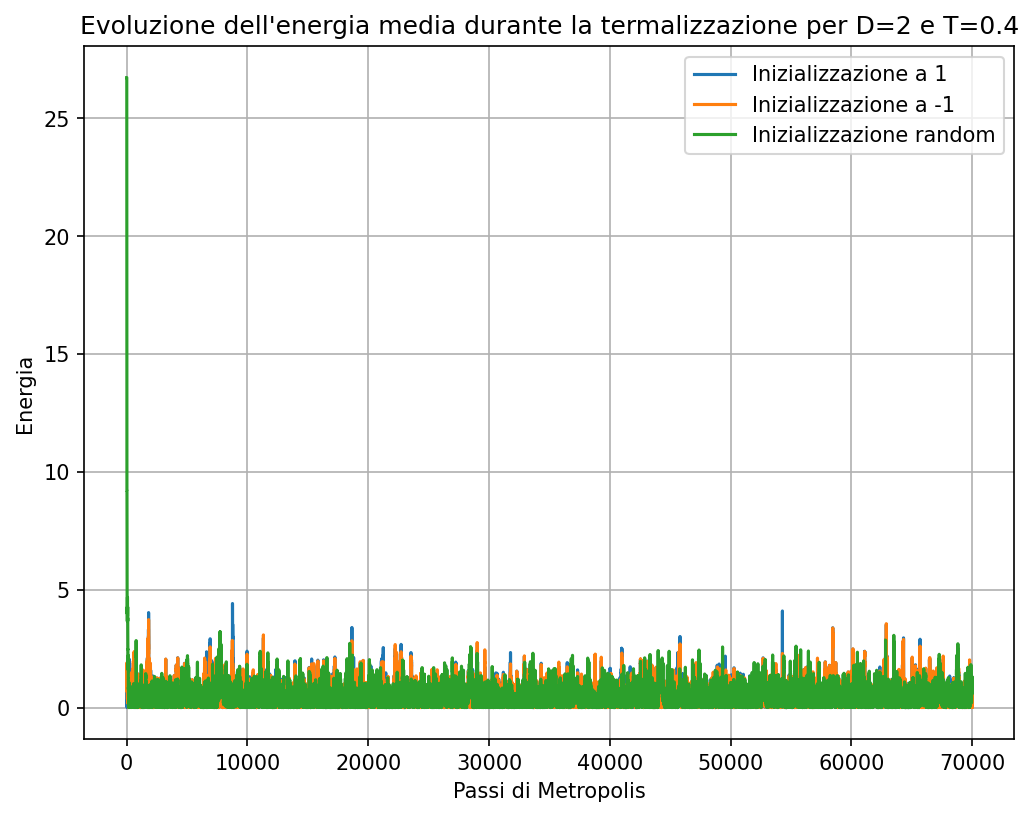
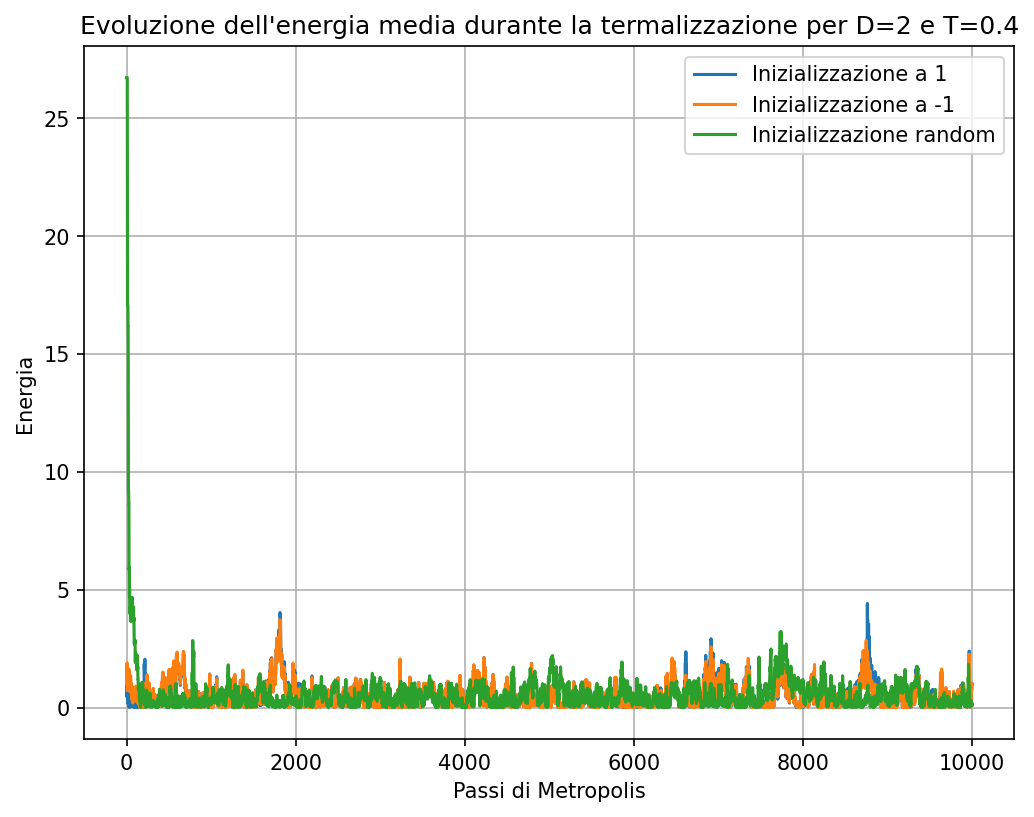
new blocking anf plateau

diff --git a/source/observable.py b/source/observable.py
@@ -1,85 +1,74 @@
 import jax 
 import jax.numpy as jnp
-import numpy as np
+import numpy as np  
 
 @jax.jit
 def V(x, a=1.0, b=1.0):
     return a * (x[0]**2 - b)**2 + 0.5 * jnp.sum(x[1:]**2)
 
+def find_plateau(R_values, threshold=0.01):
+
+    for k in range(1, len(R_values)):
+        rel = jnp.abs(R_values[k] - R_values[k-1]) / jnp.abs(R_values[k-1]) # relative change
+        if rel < threshold:
+            R_plateau = R_values[k]
+            tau = 0.5 * (R_plateau - 1.0)
+            return R_plateau, tau
+
+    # fallback → usa l'ultimo livello di blocking
+    R_plateau = R_values[-1]
+    tau = 0.5 * (R_plateau - 1.0)
+    print("Warning: no plateau found, using last R value")
+    return R_plateau, tau
+
 def blocking_analysis(data):
-    data = np.array(data)
-    N = len(data)
+    x = jnp.array(data, dtype=jnp.float32)
 
-    var_naive = np.var(data, ddof=1)
+    # varianza completa 
+    varX = jnp.var(x, ddof=1)
 
-    block_sizes = []
-    R_values = []
-    errors = []
+    R_list = []
+    cur = x.copy()
+    m = 1
 
-    for B in range(1, N // 5):
-        n_blocks = N // B
-        if n_blocks < 2:
-            break
+    # fino a quando ci sono almeno 2 blocchi
+    while cur.shape[0] >= 2:
 
-        trimmed = data[:n_blocks * B]
-        block_means = trimmed.reshape(n_blocks, B).mean(axis=1)
+        if cur.shape[0] % 2 == 1:
+            cur = cur[:-1]
+        # Media per blocco (cur è già il dataset "bloccato")
+        var_block_mean = jnp.var(cur, ddof=1)
 
-        var_B = np.var(block_means, ddof=1)
+        # R(m) = m * Var(block) / Var(full)
+        R = m * var_block_mean / varX
+        R_list.append(R)
 
-        R = B * var_B / var_naive
-
-        err = np.sqrt(R * var_naive / N)
-
-        block_sizes.append(B)
-        R_values.append(R)
-        errors.append(err)
-
-    return np.array(R_values), np.array(errors)
-
-def find_plateau(R_values, errors, window=50):
-    R_values = np.array(R_values)
-    errors = np.array(errors)
-
-    if len(R_values) <= window:
-        R_plateau = R_values[-1]
-        err_plateau = errors[-1]
-        tau = max((R_plateau - 1) / 2, 0.0)
-        return err_plateau, tau
-
-    grad = np.abs(np.diff(R_values))
-    threshold = 0.01 * np.percentile(R_values, 95)
-    candidates = np.where(grad < threshold)[0]
-
-    # Use the last sustained flat region, not the first transient dip
-    idx = candidates[-1] if len(candidates) > 0 else len(R_values) // 2
-    idx = max(idx, window)
-
-    end = min(idx + window, len(R_values))
-    R_plateau = np.mean(R_values[idx:end])
-    err_plateau = np.mean(errors[idx:end])
-
-    tau = max((R_plateau - 1) / 2, 0.0)
-    return err_plateau, tau
+        # blocking → media di coppie
+        cur = 0.5 * (cur[0::2] + cur[1::2])
+        m *= 2
+    R_plateau, tau = find_plateau(R_list, threshold=0.01)
+    M = data.shape[0]
+    sigma_mean = jnp.sqrt(R_plateau * varX / M)
+    return sigma_mean, tau
 
 def append_observables(results, trajectories, D, T, trajectory, acceptance_rate, a=1.0, b=1.0):
     energies = np.array(jax.vmap(lambda x: V(x, a, b))(trajectory))
     energies2 = energies**2
 
-    # blocking su E
-    R_E, err_E = blocking_analysis(energies)
-    E_mean_err, _ = find_plateau(R_E, err_E)
-    E_mean = np.mean(energies)
+    # blocking for E
+    E_mean =np.mean(energies)
+    E_mean_err, _ = blocking_analysis(energies)
+    
 
-    # blocking su E^2 per Cv
-    R_E2, err_E2 = blocking_analysis(energies2)
-    E2_err, _ = find_plateau(R_E2, err_E2)
+    # blocking for Cv
+    E2_mean_err, _ = blocking_analysis(energies2)
     Cv = (np.mean(energies2) - E_mean**2) / T**2
-    Cv_err = np.sqrt((E2_err**2 + 4*E_mean**2 * E_mean_err**2)) / T**2
+    # error propagation for Cv
+    Cv_err = (E2_mean_err + 2 * E_mean * E_mean_err) / T**2
 
     #tau_x
     x_values = np.array(trajectory[:, 0])
-    R_x, err_x = blocking_analysis(x_values)
-    _, tau_x = find_plateau(R_x, err_x)
+    _, tau_x = blocking_analysis(x_values)
 
     results[D]["T"].append(T)
     results[D]["E_mean"].append(E_mean)

diff --git a/source/plot.py b/source/plot.py
@@ -3,7 +3,6 @@ import os
 import jax
 import jax.numpy as jnp
 import observable as obs
-import numpy as np
 
 REPORT_DIR = os.path.join(os.path.dirname(__file__), "..", "report")
 
@@ -84,7 +83,7 @@ def plot_trajectory(trajectories, temperatures, dimensions, bins=30):
         for j, T in enumerate(temperatures):
             ax = axes[i, j]
 
-            weights = np.ones_like(trajectories[D][j]) / len(trajectories[D][j])
+            weights = jnp.ones_like(trajectories[D][j]) / len(trajectories[D][j])
 
             ax.hist(trajectories[D][j], bins=bins, weights=weights, alpha=0.7)
             ax.set_title(f"D={D}, T={T:.2f}")

diff --git a/source/main.py b/source/main.py
@@ -8,8 +8,8 @@ import jax.numpy as jnp
 def main():
     dimensions = [1, 2, 5]
     temperatures = jnp.linspace(0.1, 2.0, 10)
-    n_thermalization = 70000
-    n_steps = 30000
+    n_thermalization = 10000
+    n_steps = 200000
     step_size = 0.1
     # potential parameters
     a = 1.0
